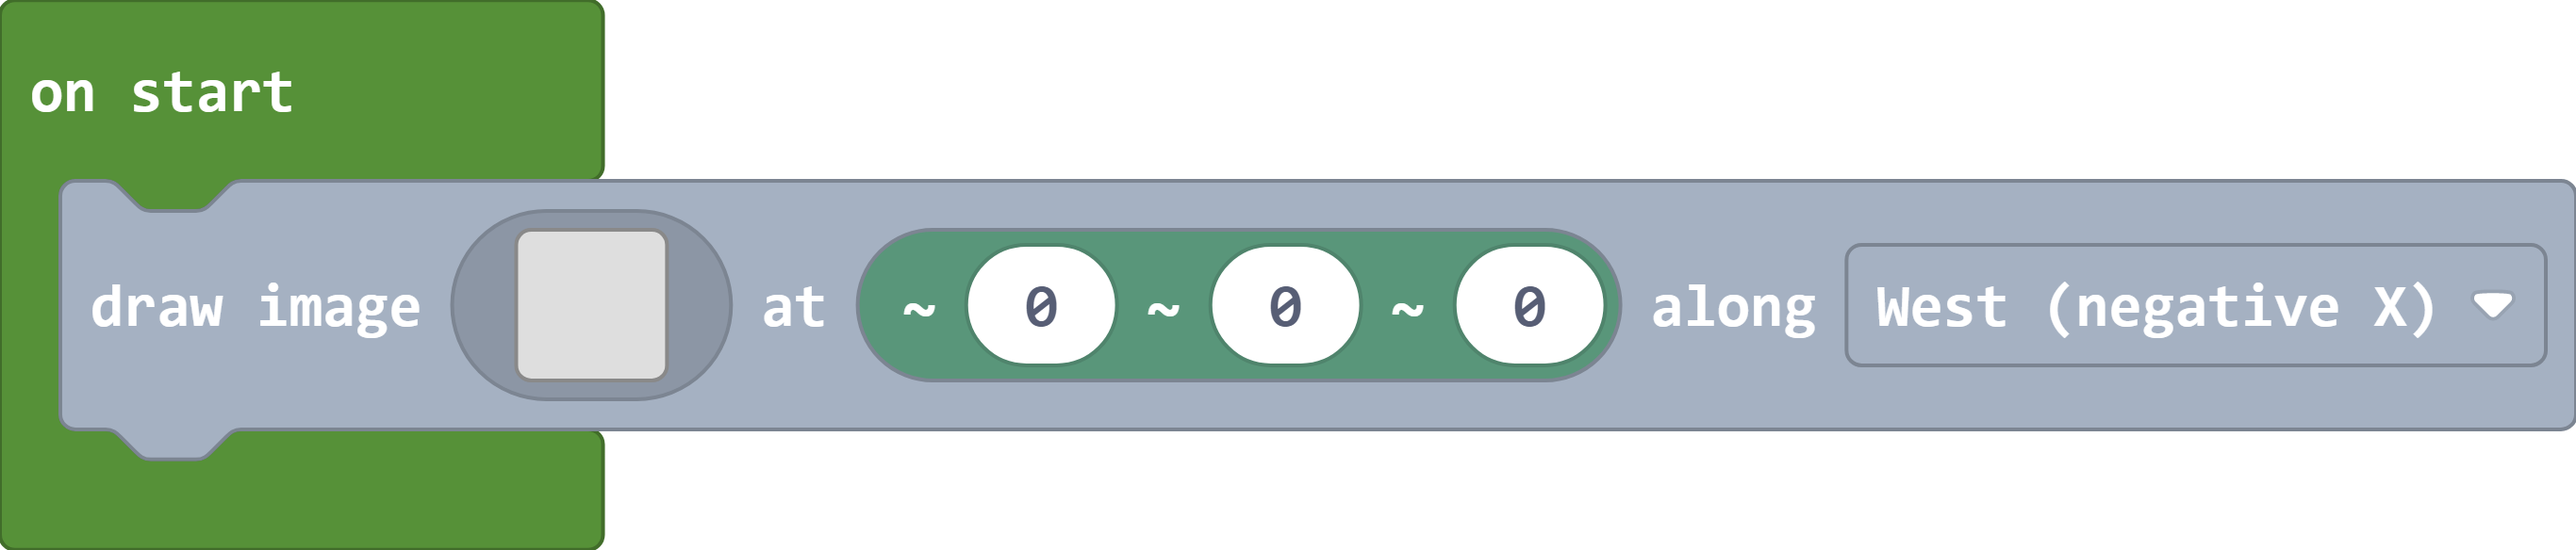
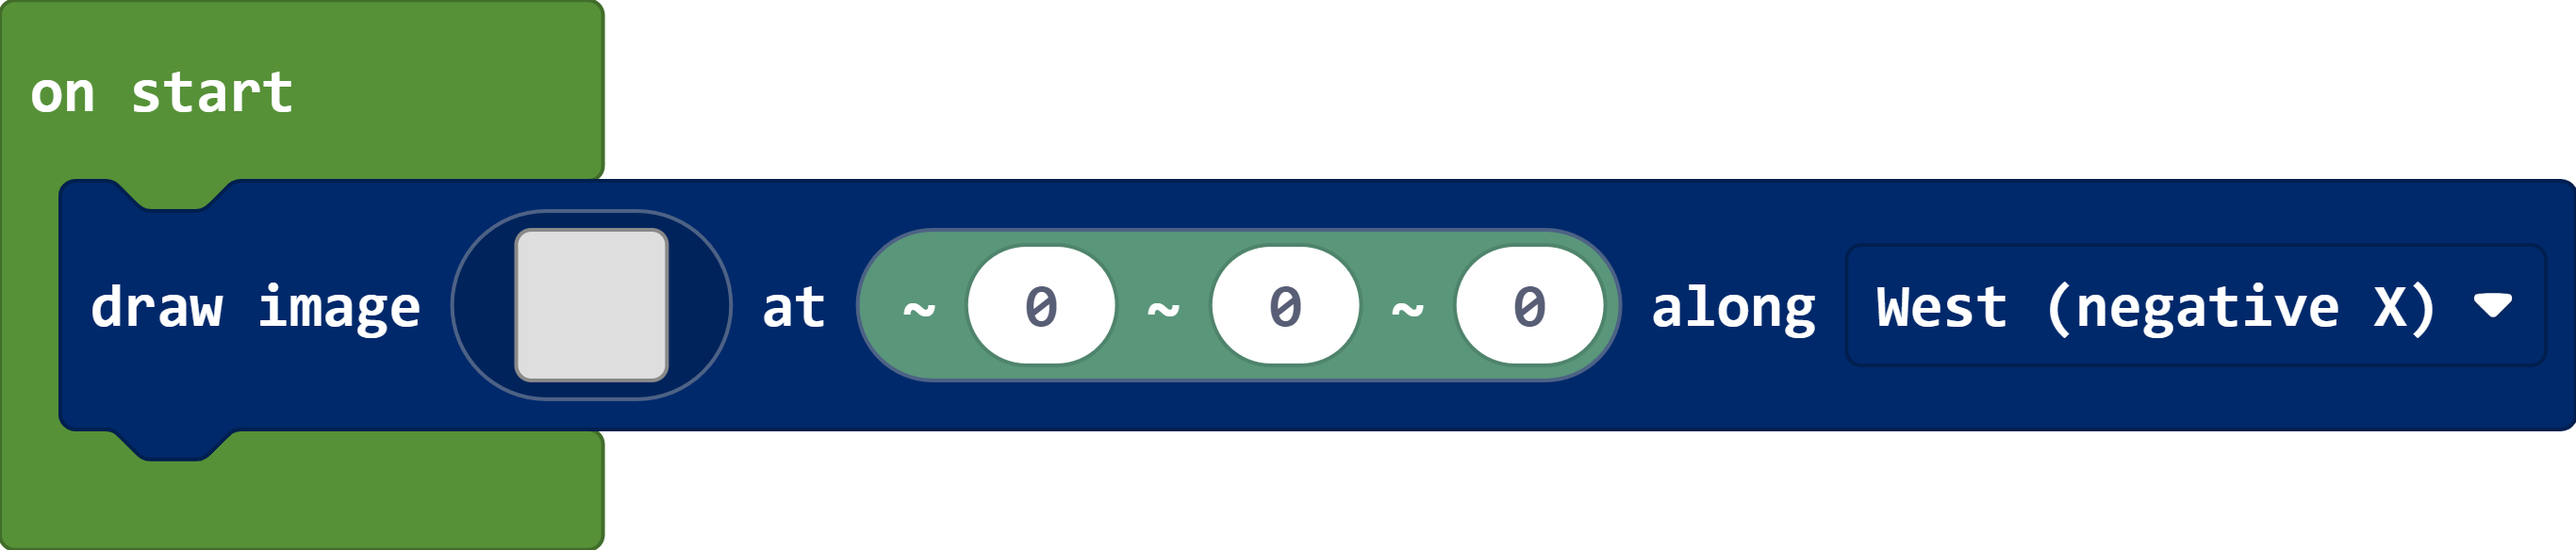
Add palette, change color

diff --git a/main.ts b/main.ts
@@ -100,7 +100,7 @@ namespace helpers {
 }
 
 //% block="Pixel Art"
-//% color="#a5b1c2"
+//% color="#00296b"
 //% icon="\uf03e"
 namespace pixelArt {
     /**
